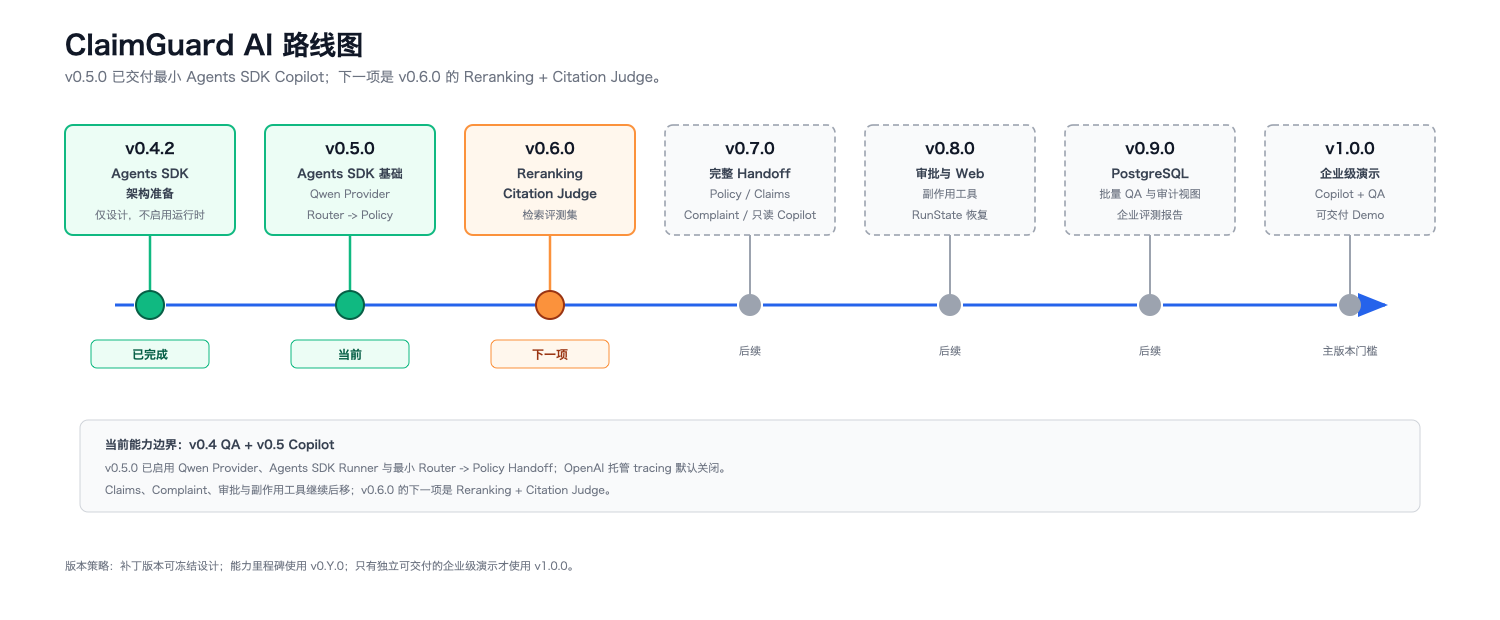
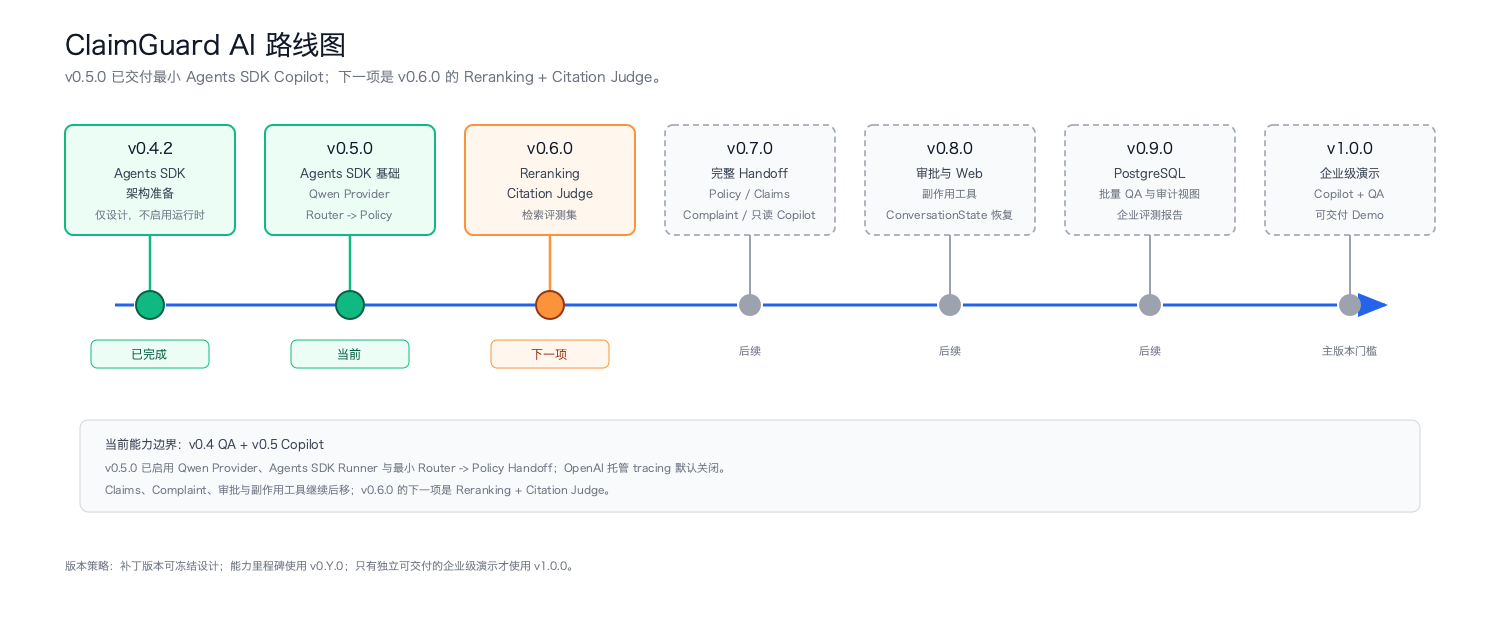
docs: correct Agents SDK release claims and diagrams

diff --git a/docs/m5-agents-sdk-foundation.md b/docs/m5-agents-sdk-foundation.md
@@ -1,6 +1,6 @@
 # M5：Agents SDK 运行时基础
 
-`v0.5.0` 交付最小可运行的客服 Copilot 基础。当前仅启用 `Router -> Policy Handoff`：Router 识别保单、保障责任、等待期和免责等条款解释意图，并只可转交给 Policy Agent。Policy Agent 必须先调用 Policy Tool 检索条款；证据不足时返回 `human_takeover`，证据充分时才输出以“客服草稿：”开头的 `draft_ready`。
+`v0.5.0` 交付最小可运行的客服 Copilot 基础。当前仅启用 `Router -> Policy Handoff`：Router 识别保单、保障责任、等待期和免责等条款解释意图，并只可转交给 Policy Agent。Policy Agent 的当前指令要求先调用 Policy Tool 检索条款，并仅据返回的条款证据起草；证据不足时应返回 `human_takeover`，证据充分时才输出以“客服草稿：”开头的 `draft_ready`。这是当前 Agent 指令和工具配置的行为，不是 Runtime 强制的不变量；Runtime 对实际工具调用及草稿与工具证据绑定的验证留待后续里程碑。
 
 Claims、Complaint、审批、任何副作用工具、完整 Compliance Guard、Reranking 和 QA Citation Judge 仍未启用。现有 QA CLI 保持独立，默认离线，且 QA JSON 报告契约不变。
 
@@ -36,7 +36,11 @@ PYTHONPATH=src python3 -m claimguard.copilot_cli \
   "宠物投保后第二天就生病了，为什么不赔？"
 ```
 
-成功输出是 JSON，其中 `current_agent` 为 `Policy Agent`，且 `draft` 以“客服草稿：”开头并只引用检索到的等待期条款。不要把输出中的任何本地配置值保存到文档、fixture 或提交信息。
+受控演示的期望输出是 JSON，其中 `current_agent` 为 `Policy Agent`，且 `draft` 以“客服草稿：”开头。草稿仅依据检索条款是当前 Policy Agent 指令与工具配置的行为，而非 Runtime 层验证。不要把输出中的任何本地配置值保存到文档、fixture 或提交信息。
+
+## 证据说明
+
+当前实现将上述要求放在 `POLICY_INSTRUCTIONS`，并仅向 Policy Agent 配置 `policy_search_tool`；`CopilotRuntime._validated_output()` 只验证输出状态和草稿前缀，不检查工具调用或草稿与返回证据的对应关系。运行时工具证据验证因此明确后移。
 
 ## 验证分层
 
